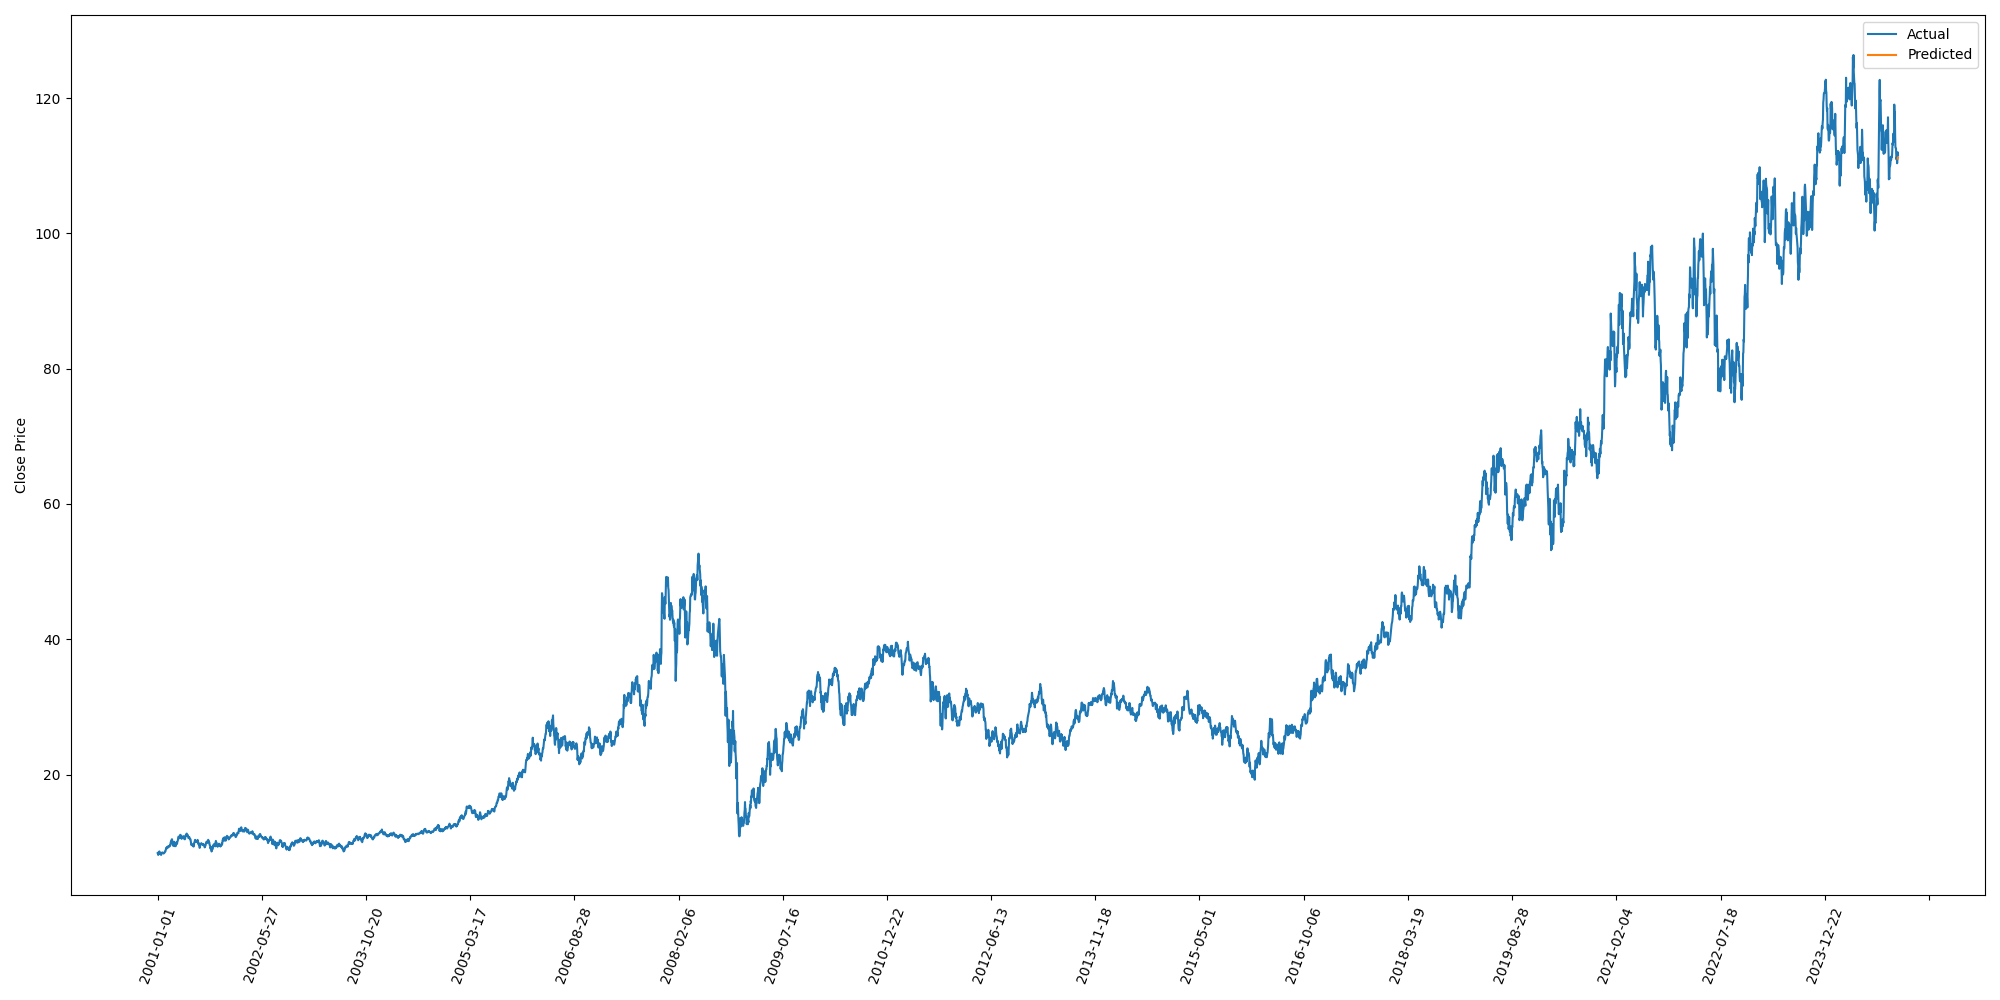
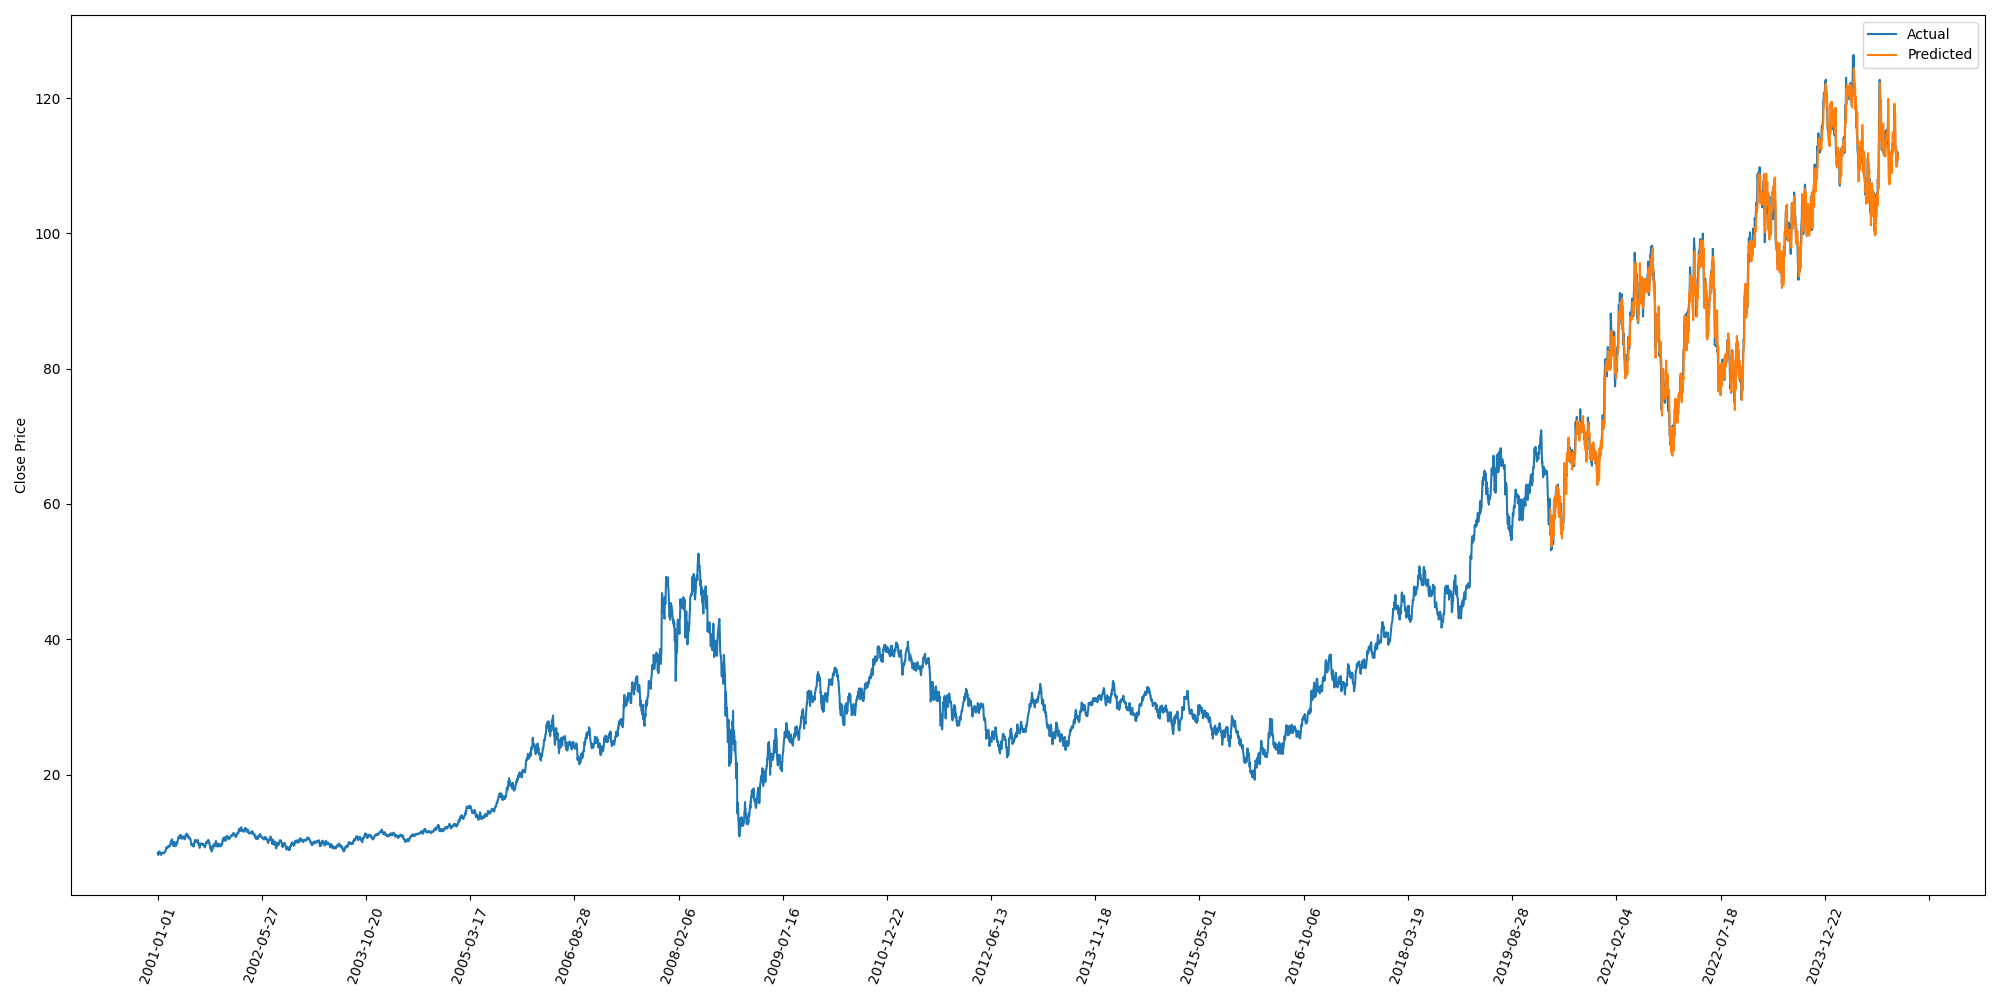
5 and 6 DONE

Changed region(s): [[0.806, 0.062, 0.961, 0.403], [0.775, 0.403, 0.806, 0.527]]

diff --git a/RF_ol.py b/RF_ol.py
@@ -118,14 +118,14 @@ def main():
         ticker_list.append(ticker)
        
     # rf_model(dataset_list[0], ticker_list[0])
-    rf_model(dataset_list[1], ticker_list[1])
-    rf_model(dataset_list[2], ticker_list[2])
-    rf_model(dataset_list[3], ticker_list[3])
-    rf_model(dataset_list[4], ticker_list[4])
+    #rf_model(dataset_list[1], ticker_list[1])
+    #rf_model(dataset_list[2], ticker_list[2])
+    #rf_model(dataset_list[3], ticker_list[3])
+    #rf_model(dataset_list[4], ticker_list[4])
     rf_model(dataset_list[5], ticker_list[5])
     rf_model(dataset_list[6], ticker_list[6])
-    rf_model(dataset_list[7], ticker_list[7])
-    rf_model(dataset_list[8], ticker_list[8])
+    #rf_model(dataset_list[7], ticker_list[7])
+    #rf_model(dataset_list[8], ticker_list[8])
     
     
 main()

diff --git a/rftest.py b/rftest.py
@@ -24,7 +24,7 @@ def make_features(df, max_lag=5, roll_windows=(5, 10)):
     # Rolling averages of Close
     for w in roll_windows:
         out[f'Close_roll{w}'] = out['Close'].shift(1).rolling(w).mean()
-    # ✅ Keep Date and Close explicitly
+    # Keep Date and Close explicitly
     return out[['Date','Close'] + [c for c in out.columns if 'lag' in c or 'roll' in c]].dropna().copy()
 
 # -------------------

diff --git a/tempCodeRunnerFile.py b/tempCodeRunnerFile.py
@@ -1,0 +1,1 @@
+con
